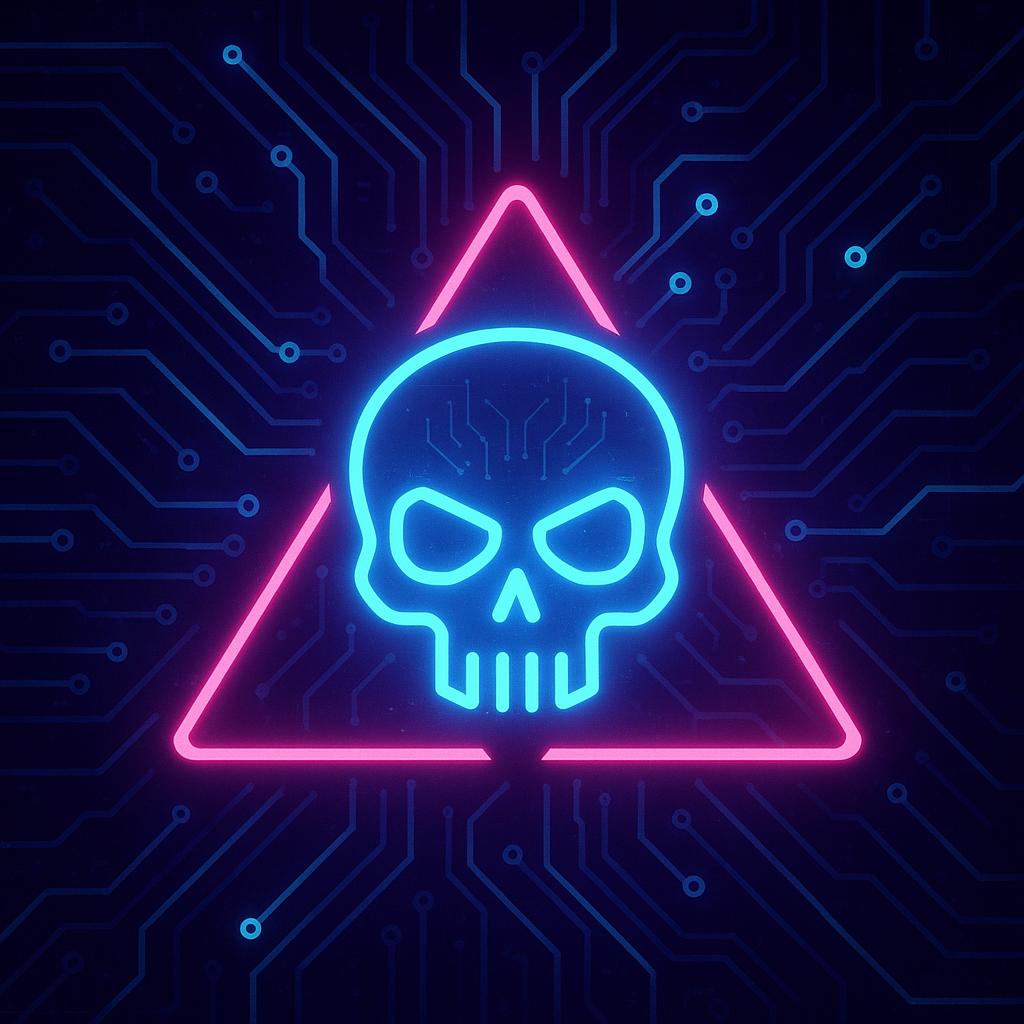
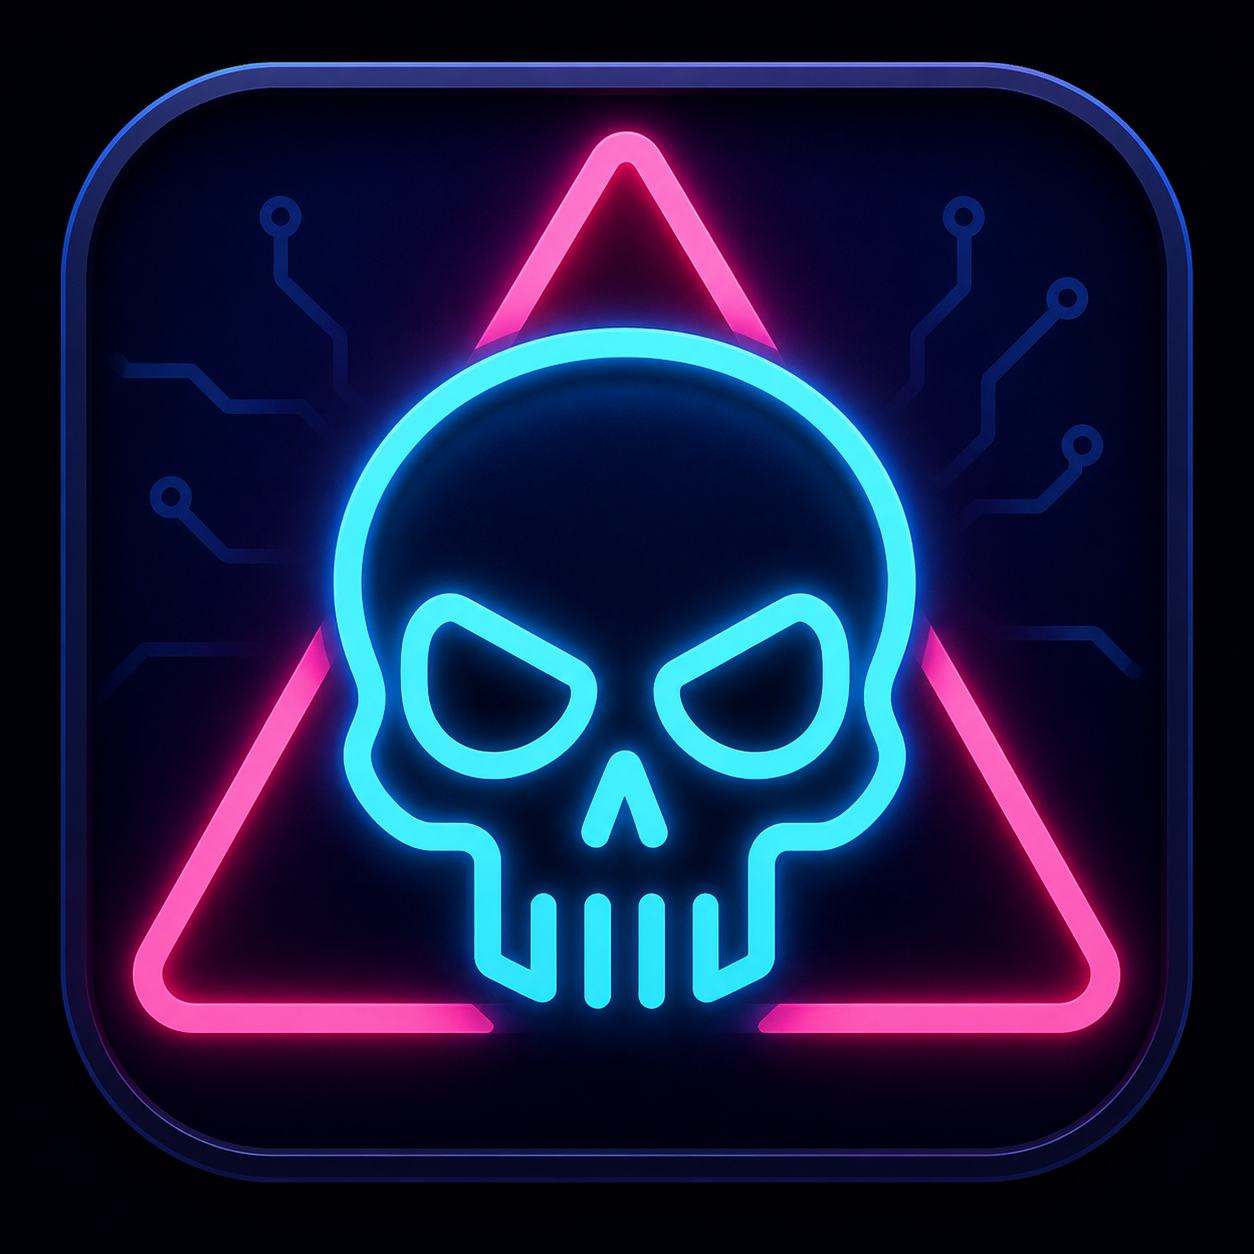
Release CYBEROPS 2.9.1

diff --git a/README.md b/README.md
@@ -3,7 +3,7 @@
   <h1>CYBEROPS TERMINAL</h1>
   <p><strong><code>NEON GRID // UNIFIED LINUX OPERATIONS CONSOLE</code></strong></p>
 
-  [![Release](https://img.shields.io/badge/RELEASE-v2.9-ff2d95?style=for-the-badge)](CHANGELOG.md)
+  [![Release](https://img.shields.io/badge/RELEASE-v2.9.1-ff2d95?style=for-the-badge)](CHANGELOG.md)
   [![Bash](https://img.shields.io/badge/SHELL-BASH_5+-00e5ff?style=for-the-badge&logo=gnubash&logoColor=050816)](cyberops.sh)
   [![Validate](https://github.com/benglish2007/CYBEROPS/actions/workflows/validate.yml/badge.svg?branch=main)](https://github.com/benglish2007/CYBEROPS/actions/workflows/validate.yml)
   [![Platform](https://img.shields.io/badge/PLATFORM-UBUNTU_%2F_DEBIAN-8b5cf6?style=for-the-badge&logo=linux&logoColor=white)](COMPATIBILITY.md)
@@ -22,12 +22,12 @@
 
 ## `//` CURRENT BUILD
 
-### CYBEROPS Terminal v2.9
+### CYBEROPS Terminal v2.9.1
 
-Version 2.9 completes Release Automation with guarded validation, exact
-previews, annotated version tags, changelog-derived GitHub Releases, and safe
-retry boundaries. See the [changelog](CHANGELOG.md) and [roadmap](ROADMAP.md)
-for release history and planned work.
+Version 2.9.1 refreshes the application icon for a stronger, clearer dock and
+app-drawer presence while preserving the original cyan cyber-skull and magenta
+warning-triangle identity. See the [changelog](CHANGELOG.md) and
+[roadmap](ROADMAP.md) for release history and planned work.
 
 ---
 
@@ -247,7 +247,7 @@ CYBEROPS is released under the [MIT License](LICENSE).
 
 <div align="center">
 
-  **`CYBEROPS TERMINAL v2.9 // LINK STANDBY`**
+  **`CYBEROPS TERMINAL v2.9.1 // LINK STANDBY`**
 
   *One terminal. One toolkit. Linux operations under control.*
 

diff --git a/CHANGELOG.md b/CHANGELOG.md
@@ -2,6 +2,17 @@
 
 All notable changes to CYBEROPS are documented in this file.
 
+## 2.9.1 — 2026-08-15
+
+Version 2.9.1 refreshes CYBEROPS desktop artwork for clearer recognition in
+compact docks and application drawers.
+
+### Application Icon
+
+- Reworked the original cyan cyber-skull and magenta warning-triangle artwork into a bold rounded-square application tile.
+- Enlarged the central skull, strengthened neon strokes, reduced background circuit noise, and improved edge contrast for 32–64 pixel display sizes.
+- Preserved the existing `cyberops.png` asset path so installed desktop entries and upgrade behavior remain compatible.
+
 ## 2.9 — 2026-08-15
 
 Version 2.9 completes **Roadmap Milestone 9: Release Automation** with guarded,

diff --git a/ROADMAP.md b/ROADMAP.md
@@ -2,7 +2,7 @@
 
 This document tracks proposed improvements discovered during the initial CYBEROPS v2 review. Items are grouped by priority so safety and reliability work lands before new features.
 
-Current release: **v2.9 — Milestone 9 complete.**
+Current release: **v2.9.1 — Milestone 9 complete.**
 
 ## Milestone 1: Safety and Test Foundation
 

diff --git a/docs/DEMO.md b/docs/DEMO.md
@@ -2,10 +2,10 @@
 
 ```console
 $ cyberops --version
-CYBEROPS Terminal 2.9
+CYBEROPS Terminal 2.9.1
 
 $ cyberops --help
-CYBEROPS Terminal v2.9
+CYBEROPS Terminal v2.9.1
 Unified Linux Operations Console
 
 Usage:
